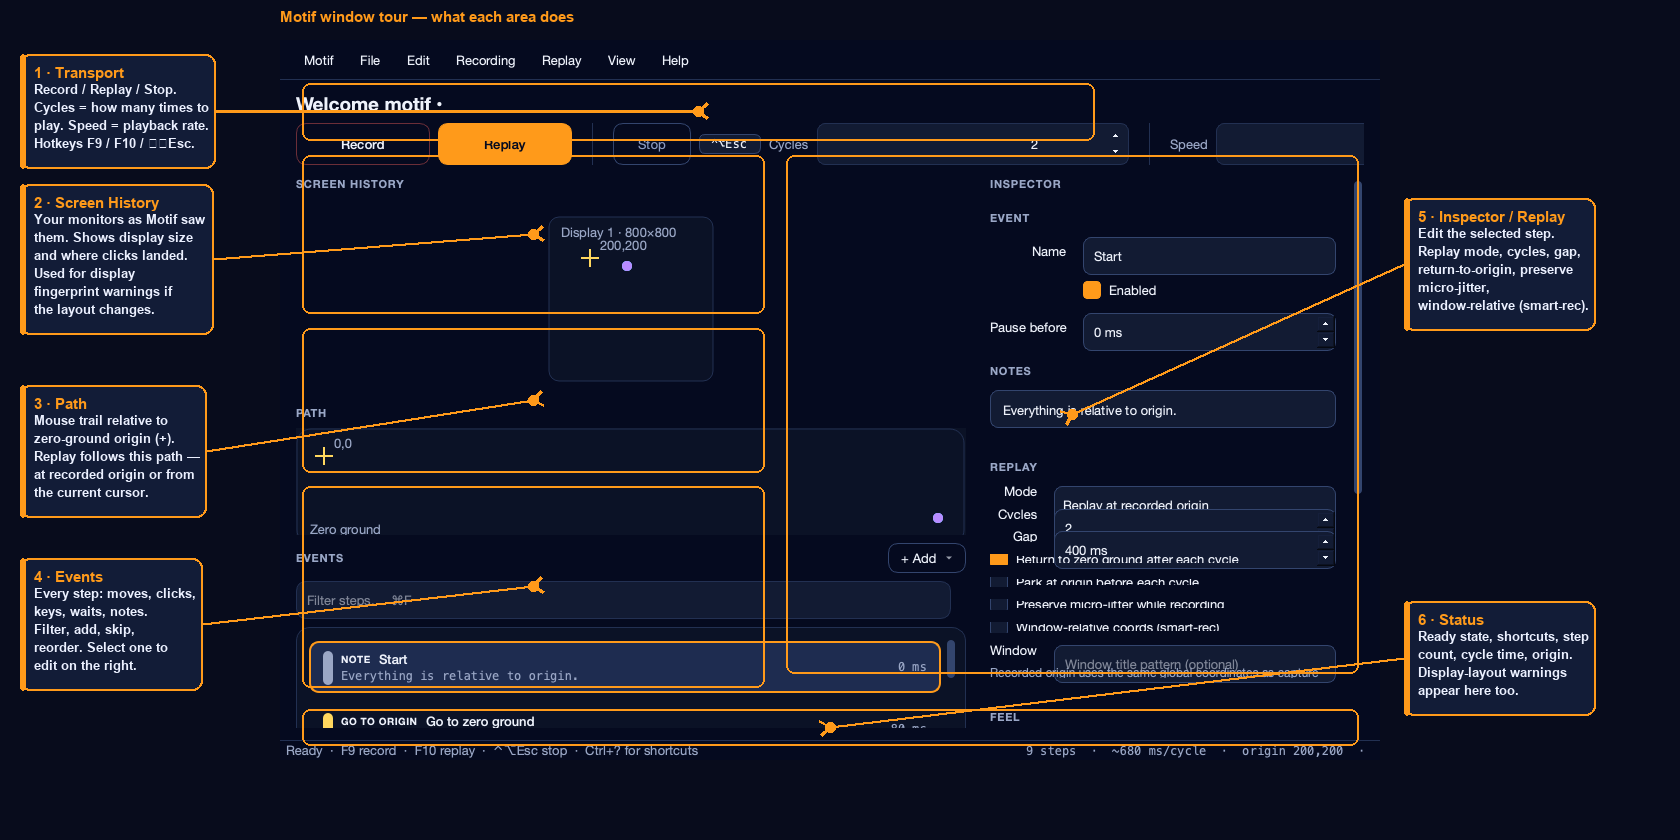
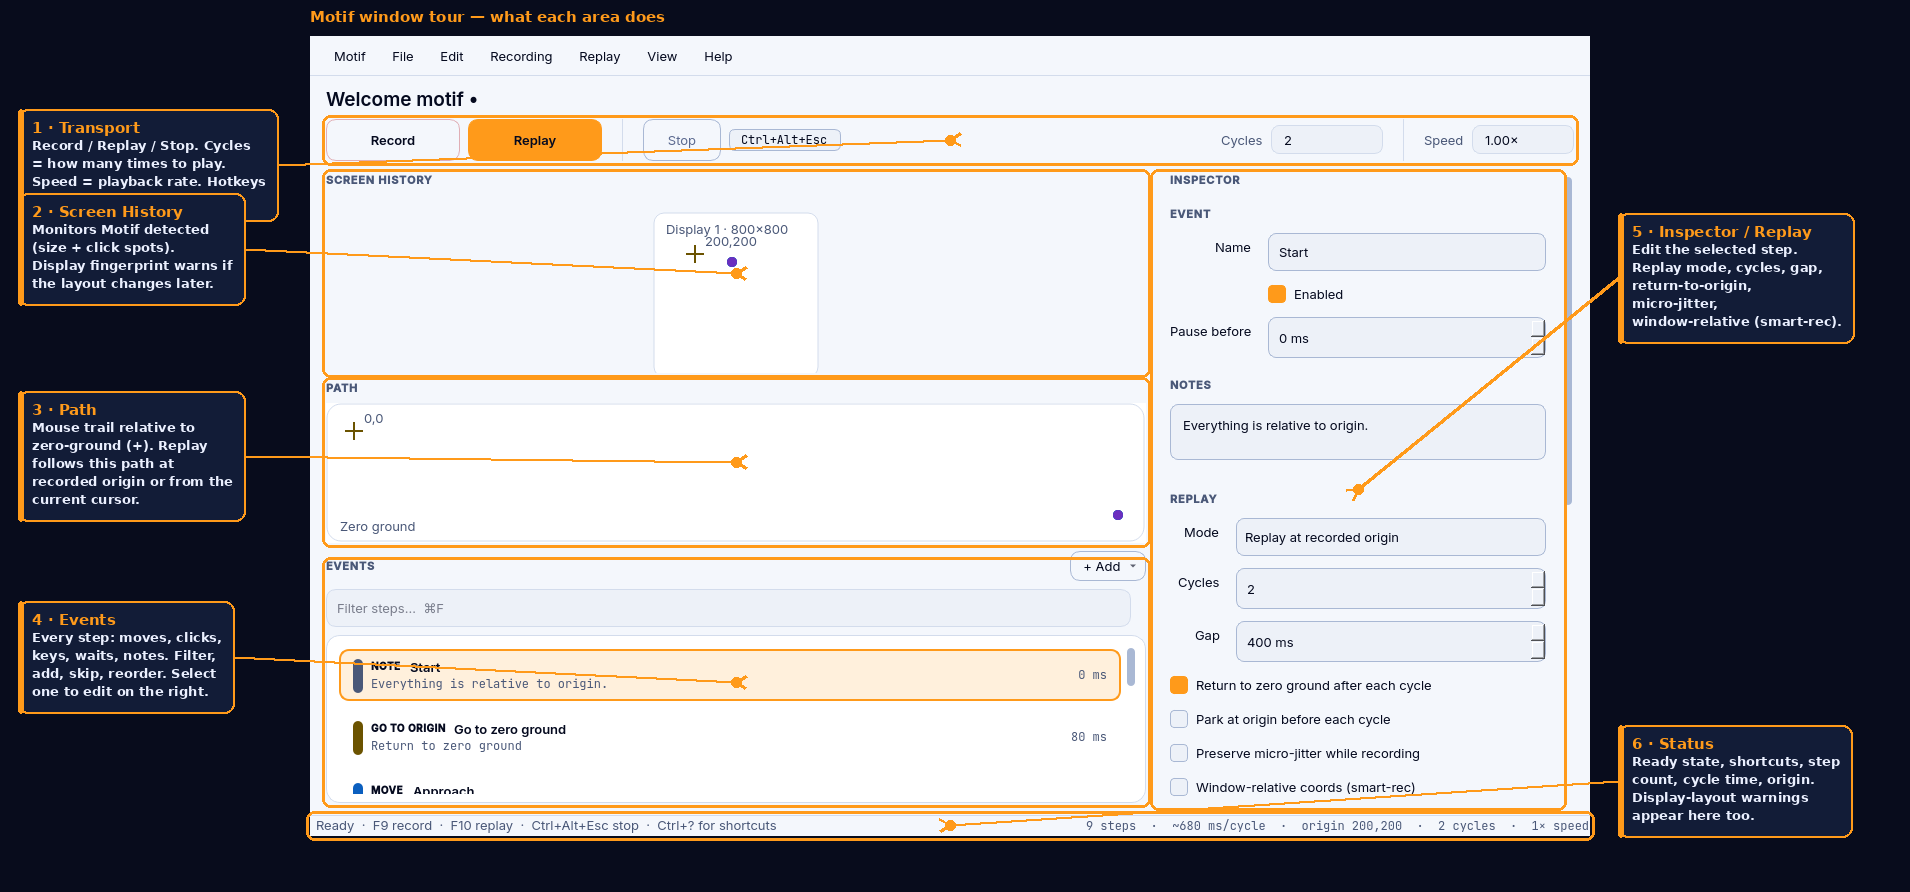
Realign Motif GUI tour callouts to live widget geometry.

diff --git a/README.md b/README.md
@@ -35,7 +35,7 @@ Day and High Contrast stills: [`motif-day.png`](docs/media/motif-day.png) · [`m
 
 ## Tour the window
 
-Plain-English map of the main Motif window:
+Plain-English map of the main Motif window (callouts aligned to the real panels):
 
 ![Motif GUI tour — numbered callouts](docs/media/motif-gui-tour.png)
 
